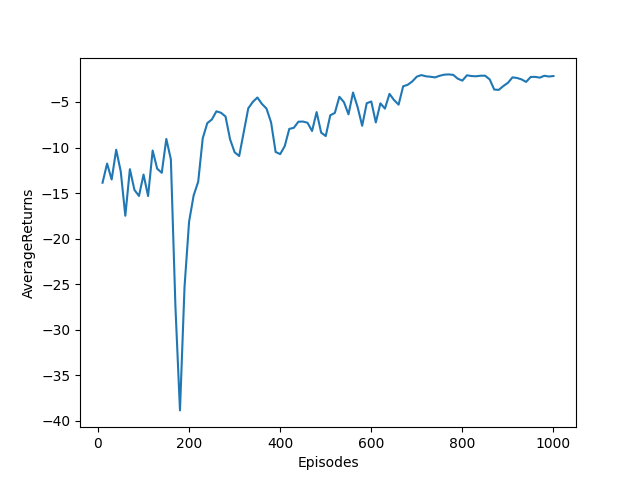
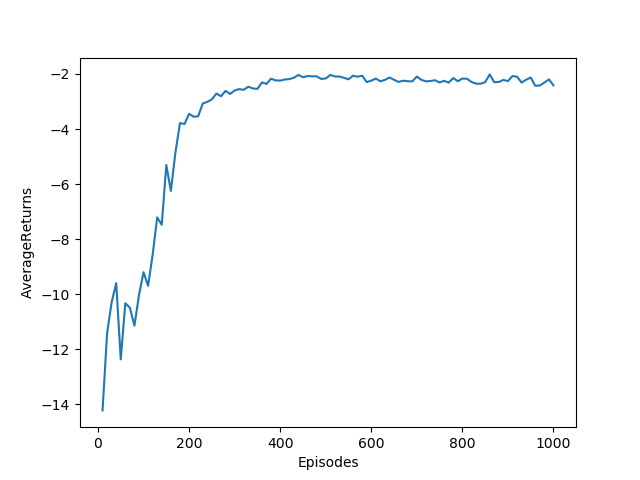
Add new setting for taskenv

diff --git a/franka_gym/script/ReachSever.py b/franka_gym/script/ReachSever.py
@@ -1,6 +1,8 @@
 import torch
 import gym
 import panda_gym
+from env.PandaReachDense_v3 import ReachTaskEnvV3
+
 import numpy as np
 import time
 import matplotlib.pyplot as plt
@@ -15,12 +17,10 @@ class ReachSever:
         self.test_model = 1000
         self.training_eps = 1000
         self.evaluation_eps = 10
-        self.max_step = 200
+        self.max_step = 50
 
         # Set env
-        env_mode = 'PandaReachDense-v2'
-        self.env = gym.make(env_mode, render=True)
-        print("Env_Name------>", env_mode)
+        self.env = ReachTaskEnvV3(render=True)
         # Env configuration
         self.state_dim = int(self.env.observation_space['observation'].shape[0] / 2)
         self.action_dim = self.env.action_space.shape[0]
@@ -37,6 +37,7 @@ class ReachSever:
         # Create an agent
         self.agent = Agent(self.env, self.state_dim, self.action_dim, self.action_limit, device=self.device,
                            automatic_entropy_tuning=True)
+        self.goal = None
 
     def run(self, mode):
         start_time = time.time()
@@ -119,6 +120,9 @@ class ReachSever:
         plt.ylabel('AverageReturns')
         plt.show()
 
+    def set_goal(self, goal):
+        self.goal = goal
+
     def motion_generate(self, max_iter):
         self.agent.load_model(self.test_model)
         print("#The model:", self.test_model, 'is loaded!!!')
@@ -133,17 +137,21 @@ class ReachSever:
             total_reward = 0.
             waypoints = []
 
+            self.agent.env.set_goal(self.goal)
             obs = self.agent.env.reset()
             done = False
+            info = {'is_success': np.array(0)}
 
             # Keep interacting until agent reaches a terminal state.
-            while not (done or step_number == self.max_step):
+            while not (done or step_number == self.max_step or info['is_success']):
+                time.sleep(0.2)
                 self.agent.steps += 1
 
                 relative_dis = obs['desired_goal'] - obs['observation'][0:3]
+                # print(np.linalg.norm(relative_dis, axis=-1))
                 mu, _ = self.agent.actor(torch.FloatTensor(relative_dis).to(self.device))
                 action = self.action_limit * torch.tanh(mu).detach().cpu().numpy()
-                next_obs, reward, done, _ = self.agent.env.step(action)
+                next_obs, reward, done, info = self.agent.env.step(action)
 
                 waypoints.append(obs['observation'])
 

diff --git a/franka_control/src/client/ros2_reachClient.cpp b/franka_control/src/client/ros2_reachClient.cpp
@@ -15,6 +15,7 @@ namespace franka_control
     void ReachActionClient::send_goal()
     {
         using namespace std::placeholders;
+        finish_flag = false;
 
         if (!this->reach_action_client->wait_for_action_server(std::chrono::seconds(10))) {
             RCLCPP_ERROR(this->node_->get_logger(), "Action server not available after waiting");
@@ -23,7 +24,7 @@ namespace franka_control
         }
 
         auto goal_msg = Reach::Goal();
-        goal_msg.current_states = {0.1, 0.1, 0.1};
+        goal_msg.current_states = {-0.1, -0.1, 0.1};
 
         RCLCPP_INFO(this->node_->get_logger(), "Sending goal");
 
@@ -63,6 +64,7 @@ namespace franka_control
     {
         switch (result.code) {
             case rclcpp_action::ResultCode::SUCCEEDED:
+                finish_flag = true;
                 break;
             case rclcpp_action::ResultCode::ABORTED:
                 RCLCPP_ERROR(this->node_->get_logger(), "Goal was aborted");

diff --git a/franka_control/src/moveit/moveit_control.cpp b/franka_control/src/moveit/moveit_control.cpp
@@ -9,7 +9,7 @@
 static const rclcpp::Logger LOGGER = rclcpp::get_logger("franka_moveit_logger");
 
 
-void home_move(moveit::planning_interface::MoveGroupInterface move_group)
+void home_move(moveit::planning_interface::MoveGroupInterface& move_group)
 {
     geometry_msgs::msg::PoseStamped_<std::allocator<void>> current_pose_stamp = move_group.getCurrentPose();
     geometry_msgs::msg::Pose_<std::allocator<void>> current_pose = current_pose_stamp.pose;
@@ -72,7 +72,10 @@ int main(int argc, char **argv) {
     RCLCPP_INFO(LOGGER, "End effector link: %s", move_group.getEndEffectorLink().c_str());
 
     reach_action_client.send_goal();
-    rclcpp::sleep_for(std::chrono::seconds(5));
+    while(!reach_action_client.finish_flag)
+    {
+        rclcpp::sleep_for(std::chrono::milliseconds (100));
+    }
 
     std::vector<double> output = reach_action_client.output;
     auto point_sum = output.size() / 6;

diff --git a/franka_gym/script/ros2_reachSever.py b/franka_gym/script/ros2_reachSever.py
@@ -1,3 +1,5 @@
+import numpy as np
+
 import rclpy
 from rclpy.action import ActionServer
 from rclpy.node import Node
@@ -18,10 +20,16 @@ class ReachActionServer(Node):
             self.execute_callback)
         self.sever = ReachSever()
         self.motion_sever = self.sever.motion_generate(5)
+        next(self.motion_sever)
+
+        self.get_logger().info("The sever has been initialized!")
 
     def execute_callback(self, goal_handle):
         self.get_logger().info('Executing goal...')
         goal_handle.succeed()
+
+        # print(np.array(goal_handle.request.current_states))
+        self.sever.set_goal(np.array(goal_handle.request.current_states))
 
         waypoints = next(self.motion_sever)
         waypoints = waypoints.flatten().tolist()

diff --git a/franka_control/include/franka_control/ros2_ReachClient.h b/franka_control/include/franka_control/ros2_ReachClient.h
@@ -28,6 +28,7 @@ namespace franka_control
         explicit ReachActionClient(const std::shared_ptr<rclcpp::Node> &node_);
 
         std::vector<double> output;
+        bool finish_flag = false;
 
         void send_goal();
     private:
